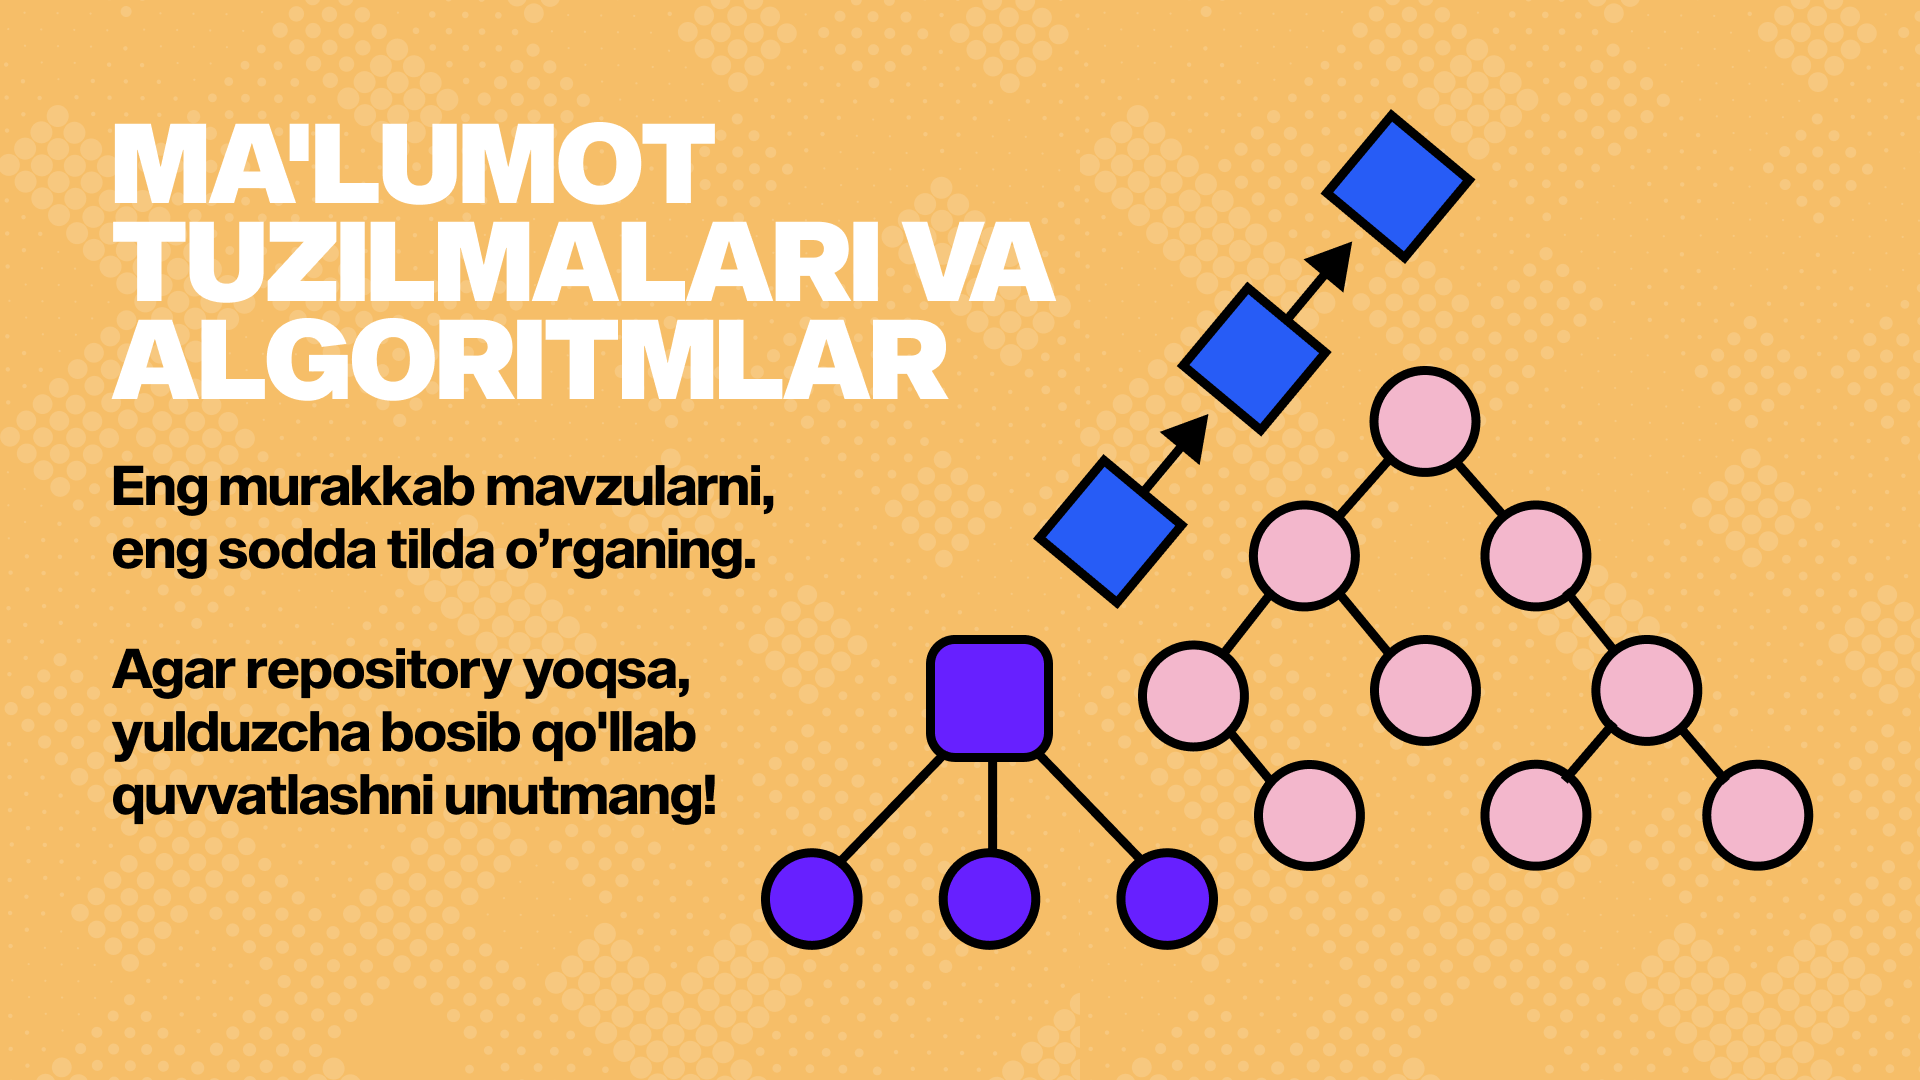
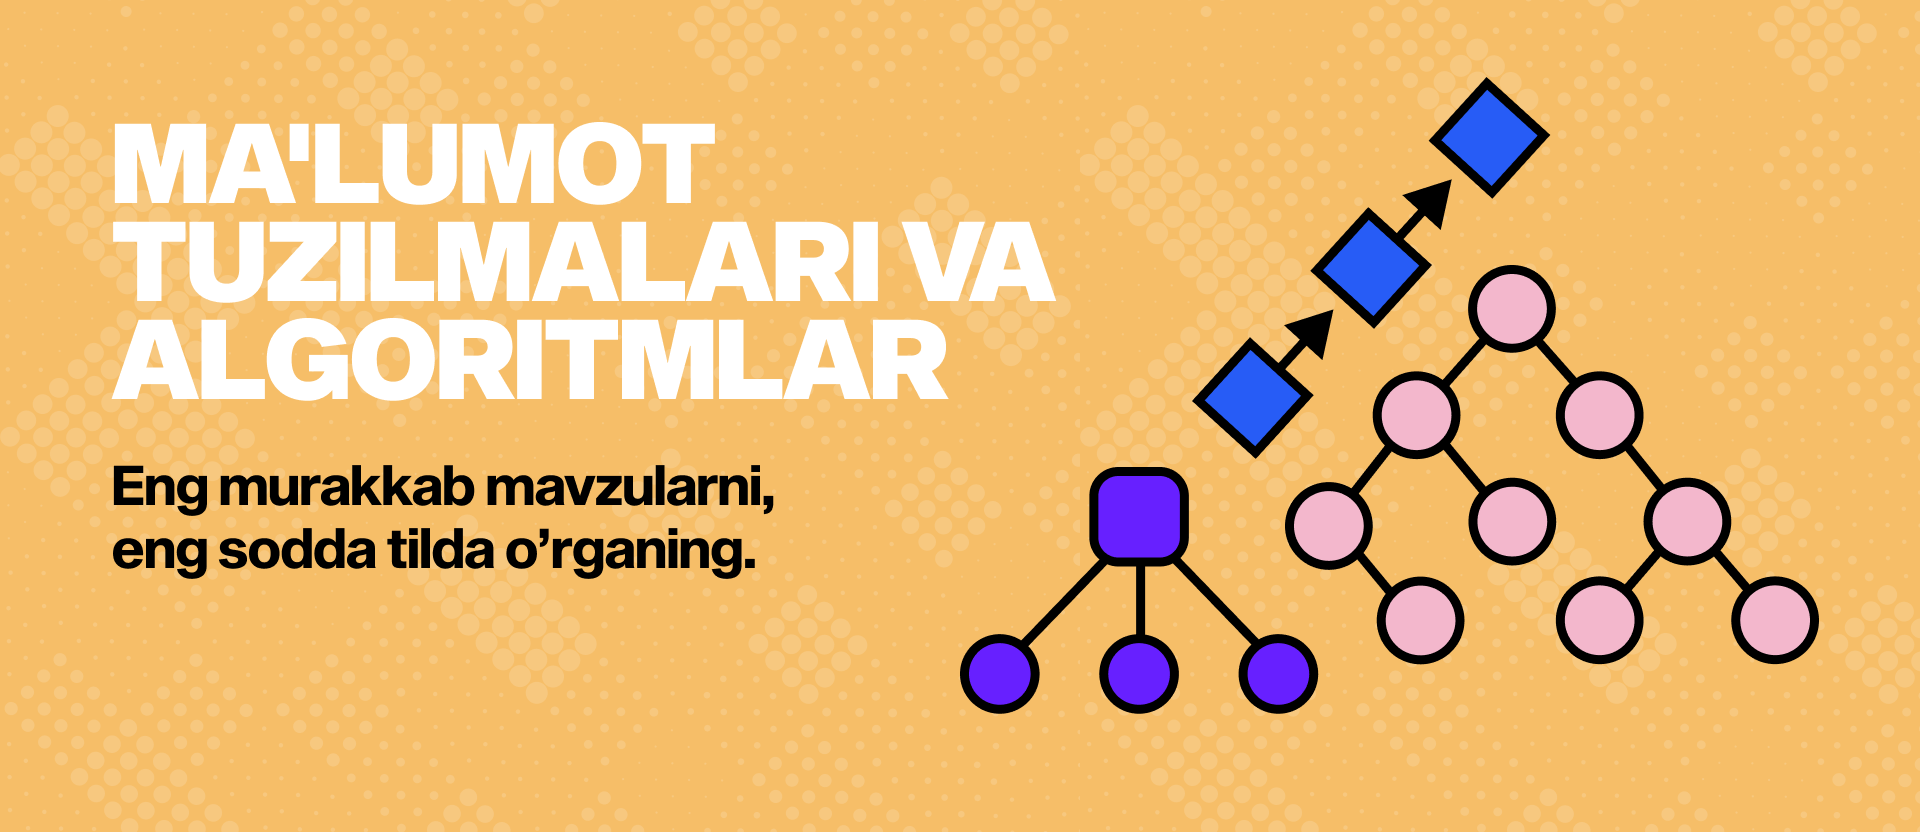
Updates images

Changed region(s): [[0.375, 0.0938, 0.9688, 0.875], [0.0312, 0.0938, 0.5625, 0.5312], [0.0312, 0.5625, 0.4062, 0.7812]]

diff --git a/topics/intro/what_is_dsa.md b/topics/intro/what_is_dsa.md
@@ -1,5 +1,7 @@
 # Nima bu ma'lumot tuzilmalari va algoritmlar?
 
+![Hero image](https://github.com/devfarhod/malumot-tuzilmalari-va-algoritmlar/blob/main/images/what-is-dsa.png)
+
 Ma'lumot tuzilmalari va algoritmlari mazali taom tayyorlash uchun retsept va ingredientlarga o'xshaydi. Retsept - bu algoritm bo'lib, u sizga taom tayyorlash uchun qanday amallarni bajarish kerakligini aytadi. Ingredientlar ma'lumotlar tuzilmalari bo'lib, ular ovqat tayyorlash uchun foydalanadigan turli komponentlardir. Yaxshi retsept va sifatli ingredientlardan mazali taom tayyorlangani kabi, to'g'ri ma'lumot tuzilmalari va algoritmlardan foydalanish dasturni yaxshi ishlashi va muammolarni samarali hal qilishga sababchi bo'ladi.
 
 Ovqat pishirishda ovqat tayyorlash uchun foydalanishingiz mumkin bo'lgan juda ko'p turli xil retseptlar mavjud, shu bilan birga juda ko'p turli xil ingredientlar ham mavjud. Kompyuter dasturlarida ham xuddi shunday. Muammoni hal qilish uchun foydalanishingiz mumkin bo'lgan juda ko'p turli xil algoritmlar mavjud, shuningdek, ma'lumotlarni tartibga solish uchun foydalanishingiz mumkin bo'lgan juda ko'p turli xil ma'lumot tuzilmalari mavjud. Yaxshi oshpaz taom uchun to'g'ri retsept va ingredientlarni qanday tanlashni bilgani kabi, yaxshi dasturchi muammo uchun to'g'ri algoritm va ma'lumot tuzilishini qanday tanlashni bilishi kerak.
